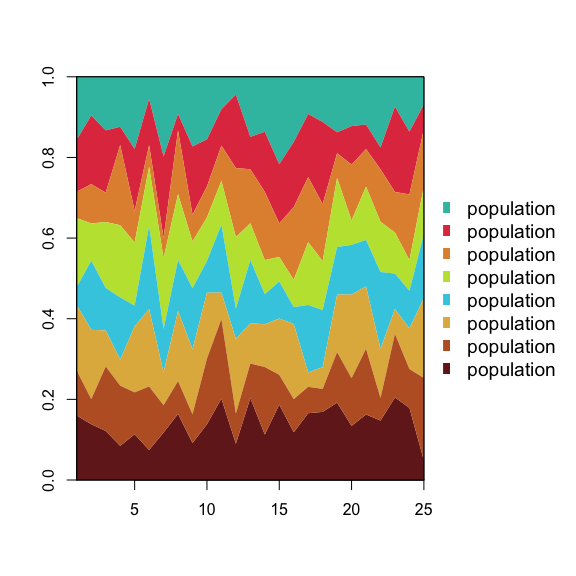
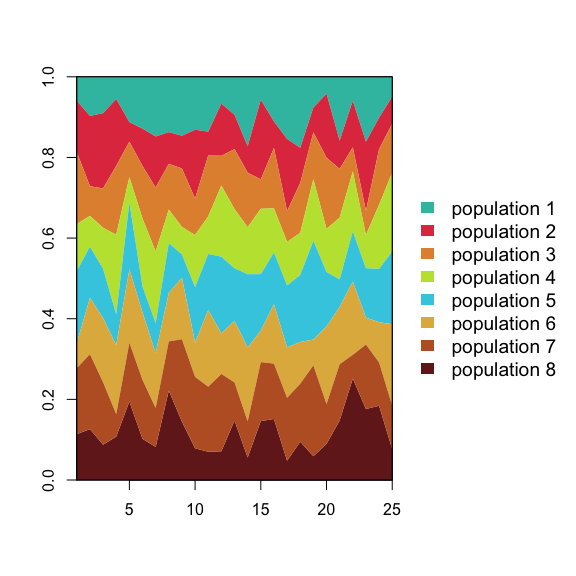
improved docum

diff --git a/README.md b/README.md
@@ -52,7 +52,7 @@ A stacked areas chart
 
 ``` r
 x <- data.frame(matrix(runif(200,2,10), 8, 25))
-stackedareas(x)
+stackedAreas(x)
 ```
 
 ![](inst/assets/img/unnamed-chunk-6-1.png)
@@ -72,9 +72,9 @@ Get pretty ranges
 ``` r
 vec <- stats::runif(20)
 range(vec)
-#> [1] 0.06253055 0.96706165
+#> [1] 0.0179900 0.9900202
 prettyRange(vec)
-#> [1] 0.05 1.00
+#> [1] 0 1
 prettyRange(c(3.85,3.88245))
 #> [1] 3.850 3.885
 ```
